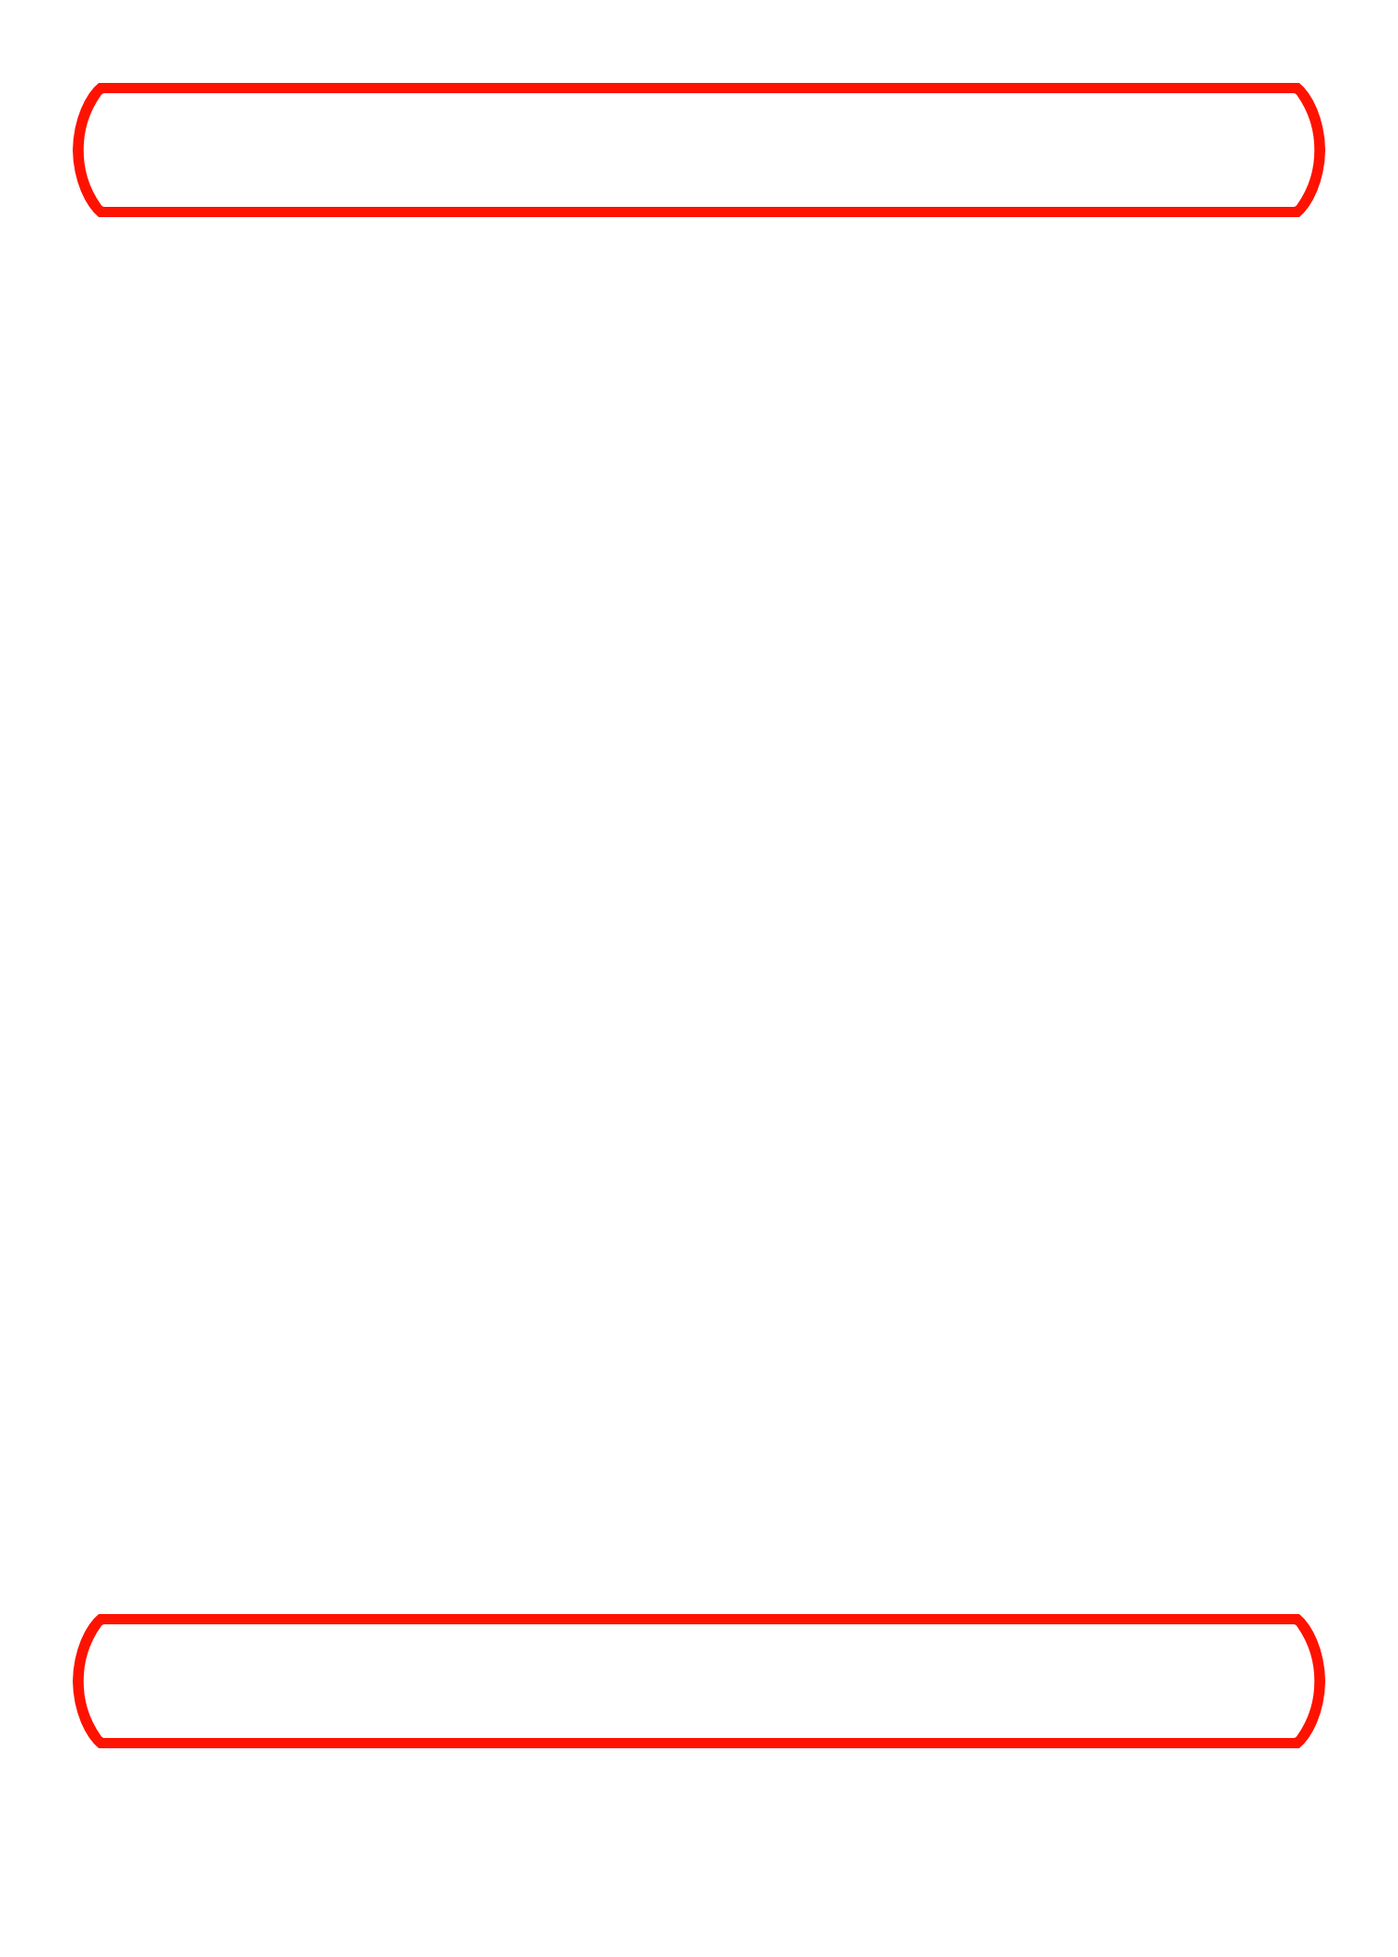
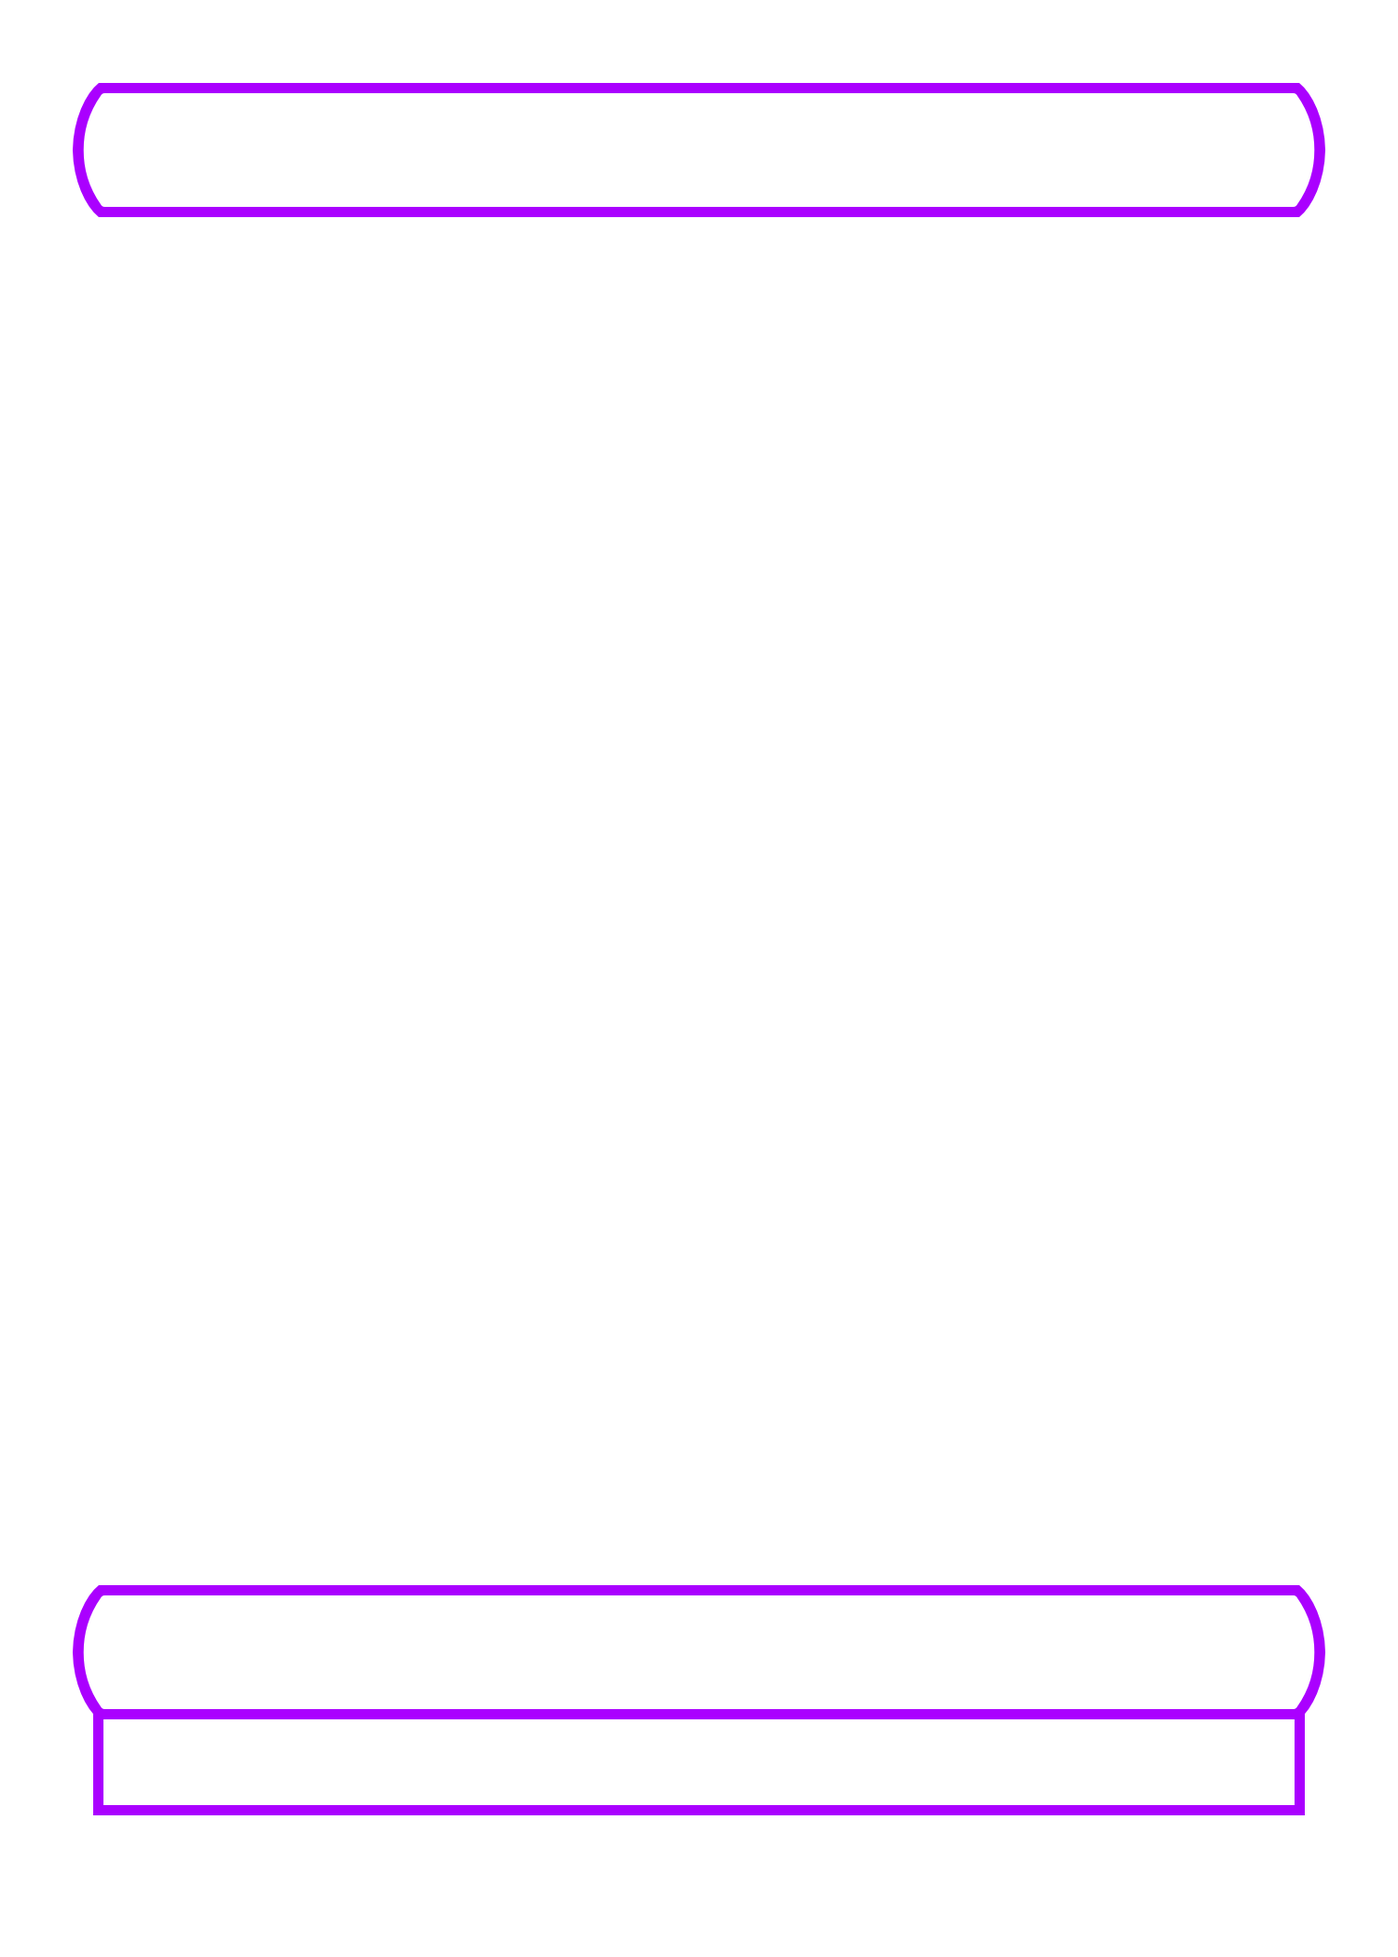
invention recreation

Changed region(s): [[0.0307, 0.8048, 0.9507, 0.9286], [0.0613, 0.031, 0.9507, 0.1238], [0.0307, 0.0619, 0.0613, 0.0929]]

diff --git a/data/scripts/versions/m15Textless/regular.js b/data/scripts/versions/m15Textless/regular.js
@@ -1,15 +1,16 @@
 if (!loadedVersions.includes('m15TextlessInvention')) {
 	loadedVersions.push('m15TextlessInvention')
 	loadFrameImages([
-		['Invention Frame', '/data/images/cardImages/m15Textless/m15TextlessFrameInvention.png', 0, 0, 1, 1, ['Full', 'Pinline (m15 Textless)', 'Title (m15)', 'Type (m15 Textless)', 'Invention (m15 Textless)', 'Border (m15 Textless)']],
-		['Invention Power/Toughness', '/data/images/cardImages/invention/inventionPT.png', 1136/1500, 1858/2100, 282/1500, 154/2100, ['Full']],
-		['White Invention Frame', '/data/images/cardImages/m15Textless/m15TextlessFrameInventionW.png', 0, 0, 1, 1, ['Full', 'Pinline (m15 Textless)', 'Title (m15)', 'Type (m15 Textless)', 'Invention (m15 Textless)', 'Border (m15 Textless)']],
-		['Blue Invention Frame', '/data/images/cardImages/m15Textless/m15TextlessFrameInventionU.png', 0, 0, 1, 1, ['Full', 'Pinline (m15 Textless)', 'Title (m15)', 'Type (m15 Textless)', 'Invention (m15 Textless)', 'Border (m15 Textless)']],
-		['Black Invention Frame', '/data/images/cardImages/m15Textless/m15TextlessFrameInventionB.png', 0, 0, 1, 1, ['Full', 'Pinline (m15 Textless)', 'Title (m15)', 'Type (m15 Textless)', 'Invention (m15 Textless)', 'Border (m15 Textless)']],
-		['Red Invention Frame', '/data/images/cardImages/m15Textless/m15TextlessFrameInventionR.png', 0, 0, 1, 1, ['Full', 'Pinline (m15 Textless)', 'Title (m15)', 'Type (m15 Textless)', 'Invention (m15 Textless)', 'Border (m15 Textless)']],
-		['Green Invention Frame', '/data/images/cardImages/m15Textless/m15TextlessFrameInventionG.png', 0, 0, 1, 1, ['Full', 'Pinline (m15 Textless)', 'Title (m15)', 'Type (m15 Textless)', 'Invention (m15 Textless)', 'Border (m15 Textless)']],
-		['Multicolored Invention Frame', '/data/images/cardImages/m15Textless/m15TextlessFrameInventionM.png', 0, 0, 1, 1, ['Full', 'Pinline (m15 Textless)', 'Title (m15)', 'Type (m15 Textless)', 'Invention (m15 Textless)', 'Border (m15 Textless)']],
-		['Artifact Invention Frame', '/data/images/cardImages/m15Textless/m15TextlessFrameInventionA.png', 0, 0, 1, 1, ['Full', 'Pinline (m15 Textless)', 'Title (m15)', 'Type (m15 Textless)', 'Invention (m15 Textless)', 'Border (m15 Textless)']],
+		['Invention Frame', '/data/images/cardImages/m15Textless/invention/m15TextlessFrameInvention.png', 0, 0, 1, 1, ['Full', 'Pinline (m15 Textless)', 'Title (m15)', 'Type (m15 Textless)', 'Filigree (m15 Textless)', 'Border (m15)']],
+		['Invention Power/Toughness', '/data/images/cardImages/m15/invention/inventionPT.png', 1136/1500, 1858/2100, 282/1500, 154/2100, ['Full']],
+		['White Invention Frame', '/data/images/cardImages/m15Textless/invention/m15TextlessFrameInventionW.png', 0, 0, 1, 1, ['Full', 'Pinline (m15 Textless)', 'Title (m15)', 'Type (m15 Textless)', 'Filigree (m15 Textless)', 'Border (m15)']],
+		['Blue Invention Frame', '/data/images/cardImages/m15Textless/invention/m15TextlessFrameInventionU.png', 0, 0, 1, 1, ['Full', 'Pinline (m15 Textless)', 'Title (m15)', 'Type (m15 Textless)', 'Filigree (m15 Textless)', 'Border (m15)']],
+		['Black Invention Frame', '/data/images/cardImages/m15Textless/invention/m15TextlessFrameInventionB.png', 0, 0, 1, 1, ['Full', 'Pinline (m15 Textless)', 'Title (m15)', 'Type (m15 Textless)', 'Filigree (m15 Textless)', 'Border (m15)']],
+		['Red Invention Frame', '/data/images/cardImages/m15Textless/invention/m15TextlessFrameInventionR.png', 0, 0, 1, 1, ['Full', 'Pinline (m15 Textless)', 'Title (m15)', 'Type (m15 Textless)', 'Filigree (m15 Textless)', 'Border (m15)']],
+		['Green Invention Frame', '/data/images/cardImages/m15Textless/invention/m15TextlessFrameInventionG.png', 0, 0, 1, 1, ['Full', 'Pinline (m15 Textless)', 'Title (m15)', 'Type (m15 Textless)', 'Filigree (m15 Textless)', 'Border (m15)']],
+		['Multicolored Invention Frame', '/data/images/cardImages/m15Textless/invention/m15TextlessFrameInventionM.png', 0, 0, 1, 1, ['Full', 'Pinline (m15 Textless)', 'Title (m15)', 'Type (m15 Textless)', 'Filigree (m15 Textless)', 'Border (m15)']],
+		['Artifact Invention Frame', '/data/images/cardImages/m15Textless/invention/m15TextlessFrameInventionA.png', 0, 0, 1, 1, ['Full', 'Pinline (m15 Textless)', 'Title (m15)', 'Type (m15 Textless)', 'Filigree (m15 Textless)', 'Border (m15)']],
+		['Land Invention Frame', '/data/images/cardImages/m15Textless/invention/m15TextlessFrameInventionL.png', 0, 0, 1, 1, ['Full', 'Pinline (m15 Textless)', 'Title (m15)', 'Type (m15 Textless)', 'Filigree (m15 Textless)', 'Border (m15)']],
 		['White Power/Toughness', '/data/images/cardImages/m15/m15PTW.png', 1136/1500, 1858/2100, 282/1500, 154/2100, ['Full']],
 		['Blue Power/Toughness', '/data/images/cardImages/m15/m15PTU.png', 1136/1500, 1858/2100, 282/1500, 154/2100, ['Full']],
 		['Black Power/Toughness', '/data/images/cardImages/m15/m15PTB.png', 1136/1500, 1858/2100, 282/1500, 154/2100, ['Full']],

diff --git a/data/scripts/versions/expedition/regular.js b/data/scripts/versions/expedition/regular.js
@@ -1,14 +1,14 @@
 if (!loadedVersions.includes('expeditionRegular')) {
 	loadedVersions.push('expeditionRegular')
 	loadFrameImages([
-		['Land Frame', '/data/images/cardImages/expedition/expeditionFrameL.png', 0, 0, 1, 1, ['Full', 'Pinline (expedition)', 'Title (m15)', 'Type (expedition)', 'Frame (expedition)', 'Rules (expedition)', 'Border (m15)']],
-		['White Frame', '/data/images/cardImages/expedition/expeditionFrameW.png', 0, 0, 1, 1, ['Full', 'Pinline (expedition)', 'Title (m15)', 'Type (expedition)', 'Frame (expedition)', 'Rules (expedition)', 'Border (m15)']],
-		['Blue Frame', '/data/images/cardImages/expedition/expeditionFrameU.png', 0, 0, 1, 1, ['Full', 'Pinline (expedition)', 'Title (m15)', 'Type (expedition)', 'Frame (expedition)', 'Rules (expedition)', 'Border (m15)']],
-		['Black Frame', '/data/images/cardImages/expedition/expeditionFrameB.png', 0, 0, 1, 1, ['Full', 'Pinline (expedition)', 'Title (m15)', 'Type (expedition)', 'Frame (expedition)', 'Rules (expedition)', 'Border (m15)']],
-		['Red Frame', '/data/images/cardImages/expedition/expeditionFrameR.png', 0, 0, 1, 1, ['Full', 'Pinline (expedition)', 'Title (m15)', 'Type (expedition)', 'Frame (expedition)', 'Rules (expedition)', 'Border (m15)']],
-		['Green Frame', '/data/images/cardImages/expedition/expeditionFrameG.png', 0, 0, 1, 1, ['Full', 'Pinline (expedition)', 'Title (m15)', 'Type (expedition)', 'Frame (expedition)', 'Rules (expedition)', 'Border (m15)']],
-		['Multicolored Frame', '/data/images/cardImages/expedition/expeditionFrameM.png', 0, 0, 1, 1, ['Full', 'Pinline (expedition)', 'Title (m15)', 'Type (expedition)', 'Frame (expedition)', 'Rules (expedition)', 'Border (m15)']],
-		['Artifact Frame', '/data/images/cardImages/expedition/expeditionFrameA.png', 0, 0, 1, 1, ['Full', 'Pinline (expedition)', 'Title (m15)', 'Type (expedition)', 'Frame (expedition)', 'Rules (expedition)', 'Border (m15)']],
+		['Land Frame', '/data/images/cardImages/expedition/expeditionFrameL.png', 0, 0, 1, 1, ['Full', 'Pinline (expedition)', 'Title (m15)', 'Type (m15 textless)', 'Frame (expedition)', 'Rules (expedition)', 'Border (m15)']],
+		['White Frame', '/data/images/cardImages/expedition/expeditionFrameW.png', 0, 0, 1, 1, ['Full', 'Pinline (expedition)', 'Title (m15)', 'Type (m15 textless)', 'Frame (expedition)', 'Rules (expedition)', 'Border (m15)']],
+		['Blue Frame', '/data/images/cardImages/expedition/expeditionFrameU.png', 0, 0, 1, 1, ['Full', 'Pinline (expedition)', 'Title (m15)', 'Type (m15 textless)', 'Frame (expedition)', 'Rules (expedition)', 'Border (m15)']],
+		['Black Frame', '/data/images/cardImages/expedition/expeditionFrameB.png', 0, 0, 1, 1, ['Full', 'Pinline (expedition)', 'Title (m15)', 'Type (m15 textless)', 'Frame (expedition)', 'Rules (expedition)', 'Border (m15)']],
+		['Red Frame', '/data/images/cardImages/expedition/expeditionFrameR.png', 0, 0, 1, 1, ['Full', 'Pinline (expedition)', 'Title (m15)', 'Type (m15 textless)', 'Frame (expedition)', 'Rules (expedition)', 'Border (m15)']],
+		['Green Frame', '/data/images/cardImages/expedition/expeditionFrameG.png', 0, 0, 1, 1, ['Full', 'Pinline (expedition)', 'Title (m15)', 'Type (m15 textless)', 'Frame (expedition)', 'Rules (expedition)', 'Border (m15)']],
+		['Multicolored Frame', '/data/images/cardImages/expedition/expeditionFrameM.png', 0, 0, 1, 1, ['Full', 'Pinline (expedition)', 'Title (m15)', 'Type (m15 textless)', 'Frame (expedition)', 'Rules (expedition)', 'Border (m15)']],
+		['Artifact Frame', '/data/images/cardImages/expedition/expeditionFrameA.png', 0, 0, 1, 1, ['Full', 'Pinline (expedition)', 'Title (m15)', 'Type (m15 textless)', 'Frame (expedition)', 'Rules (expedition)', 'Border (m15)']],
 		['White Power/Toughness', '/data/images/cardImages/m15/m15PTW.png', 1136/1500, 1858/2100, 282/1500, 154/2100, ['Full']],
 		['Blue Power/Toughness', '/data/images/cardImages/m15/m15PTU.png', 1136/1500, 1858/2100, 282/1500, 154/2100, ['Full']],
 		['Black Power/Toughness', '/data/images/cardImages/m15/m15PTB.png', 1136/1500, 1858/2100, 282/1500, 154/2100, ['Full']],

diff --git a/data/scripts/versions/token/textless.js b/data/scripts/versions/token/textless.js
@@ -1,15 +1,15 @@
 if (!loadedVersions.includes('tokenTextless')) {
 	loadedVersions.push('tokenTextless')
-	loadMaskImages([['Pinline (token textless)', '/data/images/cardImages/token/tokenMaskTextlessPinline.png'], ['Type (token textless)', '/data/images/cardImages/token/tokenMaskTextlessType.png']])
+	loadMaskImages([['Pinline (token textless)', '/data/images/cardImages/token/tokenMaskTextlessPinline.png'], ['Type (m15 textless)', '/data/images/cardImages/m15Textless/m15TextlessMaskType.png']])
 	loadFrameImages([
-		['White Frame', '/data/images/cardImages/token/tokenFrameWTextless.png', 0, 0, 1, 1, ['Full', 'Pinline (token textless)', 'Title (m15)', 'Type (token textless)', 'Border (m15)']],
-		['Blue Frame', '/data/images/cardImages/token/tokenFrameUTextless.png', 0, 0, 1, 1, ['Full', 'Pinline (token textless)', 'Title (m15)', 'Type (token textless)', 'Border (m15)']],
-		['Black Frame', '/data/images/cardImages/token/tokenFrameBTextless.png', 0, 0, 1, 1, ['Full', 'Pinline (token textless)', 'Title (m15)', 'Type (token textless)', 'Border (m15)']],
-		['Red Frame', '/data/images/cardImages/token/tokenFrameRTextless.png', 0, 0, 1, 1, ['Full', 'Pinline (token textless)', 'Title (m15)', 'Type (token textless)', 'Border (m15)']],
-		['Green Frame', '/data/images/cardImages/token/tokenFrameGTextless.png', 0, 0, 1, 1, ['Full', 'Pinline (token textless)', 'Title (m15)', 'Type (token textless)', 'Border (m15)']],
-		['Multicolored Frame', '/data/images/cardImages/token/tokenFrameMTextless.png', 0, 0, 1, 1, ['Full', 'Pinline (token textless)', 'Title (m15)', 'Type (token textless)', 'Border (m15)']],
-		['Artifact Frame', '/data/images/cardImages/token/tokenFrameATextless.png', 0, 0, 1, 1, ['Full', 'Pinline (token textless)', 'Title (m15)', 'Type (token textless)', 'Border (m15)']],
-		['Land Frame', '/data/images/cardImages/token/tokenFrameLTextless.png', 0, 0, 1, 1, ['Full', 'Pinline (token textless)', 'Title (m15)', 'Type (token textless)', 'Border (m15)']],
+		['White Frame', '/data/images/cardImages/token/tokenFrameWTextless.png', 0, 0, 1, 1, ['Full', 'Pinline (token textless)', 'Title (m15)', 'Type (m15 textless)', 'Border (m15)']],
+		['Blue Frame', '/data/images/cardImages/token/tokenFrameUTextless.png', 0, 0, 1, 1, ['Full', 'Pinline (token textless)', 'Title (m15)', 'Type (m15 textless)', 'Border (m15)']],
+		['Black Frame', '/data/images/cardImages/token/tokenFrameBTextless.png', 0, 0, 1, 1, ['Full', 'Pinline (token textless)', 'Title (m15)', 'Type (m15 textless)', 'Border (m15)']],
+		['Red Frame', '/data/images/cardImages/token/tokenFrameRTextless.png', 0, 0, 1, 1, ['Full', 'Pinline (token textless)', 'Title (m15)', 'Type (m15 textless)', 'Border (m15)']],
+		['Green Frame', '/data/images/cardImages/token/tokenFrameGTextless.png', 0, 0, 1, 1, ['Full', 'Pinline (token textless)', 'Title (m15)', 'Type (m15 textless)', 'Border (m15)']],
+		['Multicolored Frame', '/data/images/cardImages/token/tokenFrameMTextless.png', 0, 0, 1, 1, ['Full', 'Pinline (token textless)', 'Title (m15)', 'Type (m15 textless)', 'Border (m15)']],
+		['Artifact Frame', '/data/images/cardImages/token/tokenFrameATextless.png', 0, 0, 1, 1, ['Full', 'Pinline (token textless)', 'Title (m15)', 'Type (m15 textless)', 'Border (m15)']],
+		['Land Frame', '/data/images/cardImages/token/tokenFrameLTextless.png', 0, 0, 1, 1, ['Full', 'Pinline (token textless)', 'Title (m15)', 'Type (m15 textless)', 'Border (m15)']],
 		['White Power/Toughness', '/data/images/cardImages/m15/m15PTW.png', 1136/1500, 1858/2100, 282/1500, 154/2100, ['Full']],
 		['Blue Power/Toughness', '/data/images/cardImages/m15/m15PTU.png', 1136/1500, 1858/2100, 282/1500, 154/2100, ['Full']],
 		['Black Power/Toughness', '/data/images/cardImages/m15/m15PTB.png', 1136/1500, 1858/2100, 282/1500, 154/2100, ['Full']],

diff --git a/data/scripts/versions/m15Textless/version.js b/data/scripts/versions/m15Textless/version.js
@@ -1,6 +1,6 @@
 if (!loadedVersions.includes('m15Textless')) {
 	loadedVersions.push('m15Textless')
-	loadMaskImages([['Border (m15 Textless)', '/data/images/cardImages/m15Textless/m15TextlessMaskBorder.png'], ['Pinline (m15 Textless)', '/data/images/cardImages/m15Textless/m15TextlessMaskPinline.png'], ['Type (m15 Textless)', '/data/images/cardImages/m15Textless/m15TextlessMaskType.png'], ['Invention (m15 Textless)', '/data/images/cardImages/m15Textless/m15TextlessMaskInvention.png']])
+	loadMaskImages([['Border (m15)', '/data/images/cardImages/m15/m15MaskBorder.png'], ['Pinline (m15 Textless)', '/data/images/cardImages/m15Textless/m15TextlessMaskPinline.png'], ['Type (m15 Textless)', '/data/images/cardImages/m15Textless/m15TextlessMaskType.png'], ['Filigree (m15 Textless)', '/data/images/cardImages/m15Textless/invention/m15TextlessMaskInvention.png']])
 }
 
 if (currentVersion != 'm15Textless') {
@@ -8,7 +8,7 @@ if (currentVersion != 'm15Textless') {
 
 	loadTextOptions([
 	new cardText('Card Title', '', 126/1500, 188/2100, 1248/1500, 80/2100, 'belerenb', 80/2100, 'black', ['oneLine=true']),
-	new cardText('Card Type', '', 126/1500, 1827/2100, 1248/1500, 68/2100, 'belerenb', 68/2100, 'black', ['oneLine=true']),
+	new cardText('Card Type', '', 126/1500, 1795/2100, 1248/1500, 68/2100, 'belerenb', 68/2100, 'black', ['oneLine=true']),
 	new cardText('Power/Toughness', '', 1191/1500, 1954/2100, 205/1500, 78/2100, 'belerenbsc', 78/2100, 'black', ['oneLine=true,textAlign="center"'])
 	])
 
@@ -24,7 +24,7 @@ if (currentVersion != 'm15Textless') {
 	manaCostDirection = 'reverse'
 
 	setSymbolX = [scaleX(1382/1500), 'right']
-	setSymbolY = [scaleY(1804/2100), 'center']
+	setSymbolY = [scaleY(1772/2100), 'center']
 	setSymbolWidth = scaleX(180/1500)
 	setSymbolHeight = scaleY(86/2100)
 

diff --git a/data/scripts/versions/expedition/version.js b/data/scripts/versions/expedition/version.js
@@ -1,6 +1,6 @@
 if (!loadedVersions.includes('expedition')) {
 	loadedVersions.push('expedition')
-	loadMaskImages([['Pinline (expedition)', '/data/images/cardImages/expedition/expeditionMaskPinline.png'], ['Type (expedition)', '/data/images/cardImages/expedition/expeditionMaskType.png'], ['Rules (expedition)', '/data/images/cardImages/expedition/expeditionMaskTextbox.png'], ['Frame (expedition)', '/data/images/cardImages/expedition/expeditionMaskFrame.png']])
+	loadMaskImages([['Pinline (expedition)', '/data/images/cardImages/expedition/expeditionMaskPinline.png'], ['Type (m15 textless)', '/data/images/cardImages/m15Textless/m15TextlessMaskType.png'], ['Rules (expedition)', '/data/images/cardImages/expedition/expeditionMaskTextbox.png'], ['Frame (expedition)', '/data/images/cardImages/expedition/expeditionMaskFrame.png']])
 }
 
 if (currentVersion != 'expedition') {

diff --git a/data/scripts/versions/m15/invention.js b/data/scripts/versions/m15/invention.js
@@ -1,8 +1,8 @@
 if (!loadedVersions.includes('m15Invention')) {
 	loadedVersions.push("m15Invention")
 	loadFrameImages([
-		['Invention Frame', '/data/images/cardImages/invention/inventionFrame.png', 0, 0, 1, 1, ['Full', 'Pinline Super (m15)', 'Title (m15)', 'Type (m15)', 'Rules (m15)', 'Frame (m15)', 'Border (m15)']],
-		['Invention Power/Toughness', '/data/images/cardImages/invention/inventionPT.png', 1136/1500, 1858/2100, 282/1500, 154/2100, ['Full']]
+		['Invention Frame', '/data/images/cardImages/m15/invention/m15InventionFrameA.png', 0, 0, 1, 1, ['Full', 'Pinline Super (m15)', 'Title (m15)', 'Type (m15)', 'Rules (m15)', 'Frame (m15)', 'Border (m15)']],
+		['Invention Power/Toughness', '/data/images/cardImages/m15/invention/inventionPT.png', 1136/1500, 1858/2100, 282/1500, 154/2100, ['Full']]
 	], 'frameClassM15Invention')
 }
 

diff --git a/creator/index.html b/creator/index.html
@@ -50,7 +50,7 @@
 				                <option value="m15">Regular</option>
 				                <option value="token">Tokens</option>
 				                <option value="m15Planeswalker">M15 Planeswalker</option>
-				                <option disabled value=''>Special Frames</option>
+				                <option disabled value=''>Unique Frames</option>
 				                <option value="m15Promo">Promo</option>
 				                <option value="m15Textless">Textless Kaladesh Inventions</option>
 				                <option value="storybook">Eldraine Storybook</option>

diff --git a/data/styles/main.css b/data/styles/main.css
@@ -174,6 +174,7 @@ img {
     user-drag: none;
 }
 #framePicker, #maskPicker {
+	margin-top: 0.25rem;
 	padding-top: 0.25rem;
 	margin-bottom: 0.25rem;
 	max-height: 260pt;
@@ -240,7 +241,7 @@ img {
 }
 
 /*Gives non-text inputs the pointer cursor*/
-input:not([type='text']), select, option, button {
+input:not([type='text']):not([type='number']), select, option, button {
     cursor: pointer;
 }
 /*Styles most of the inputs, except checkboxes*/
